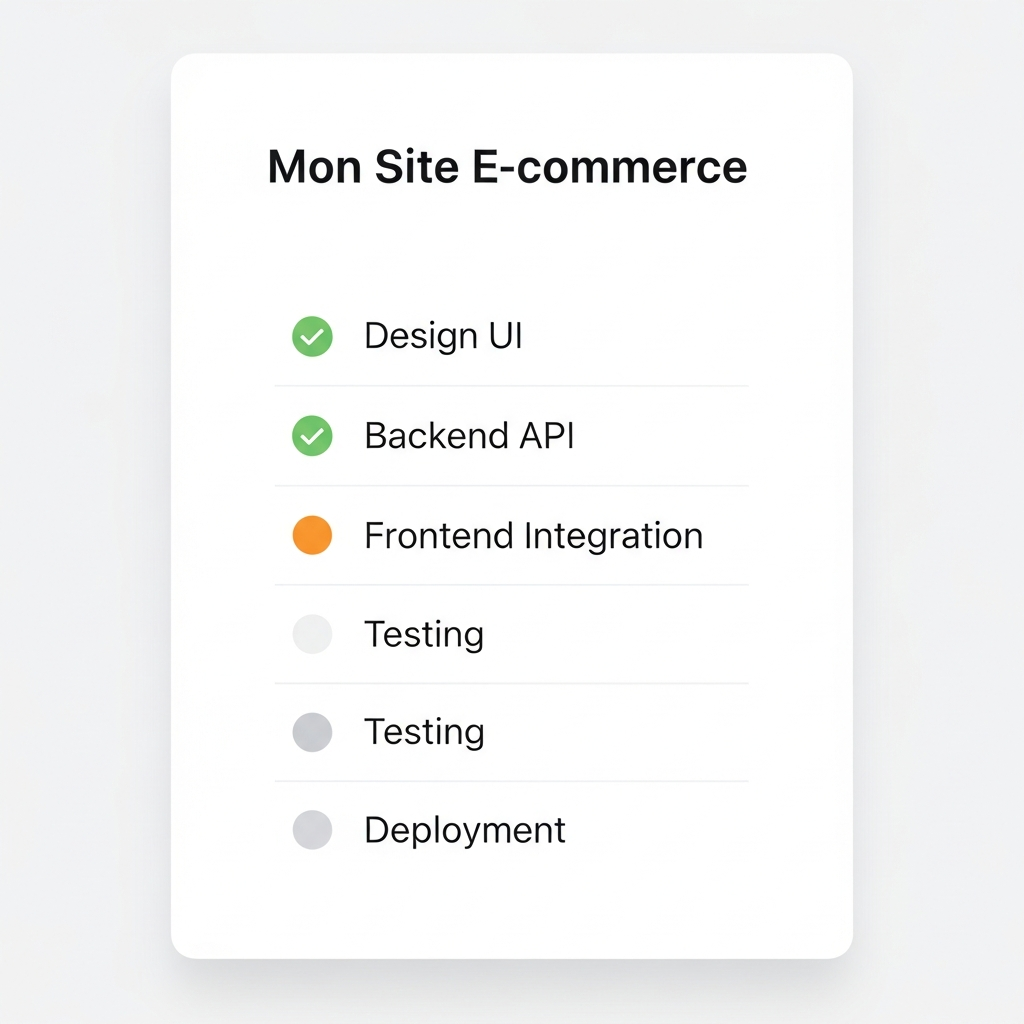
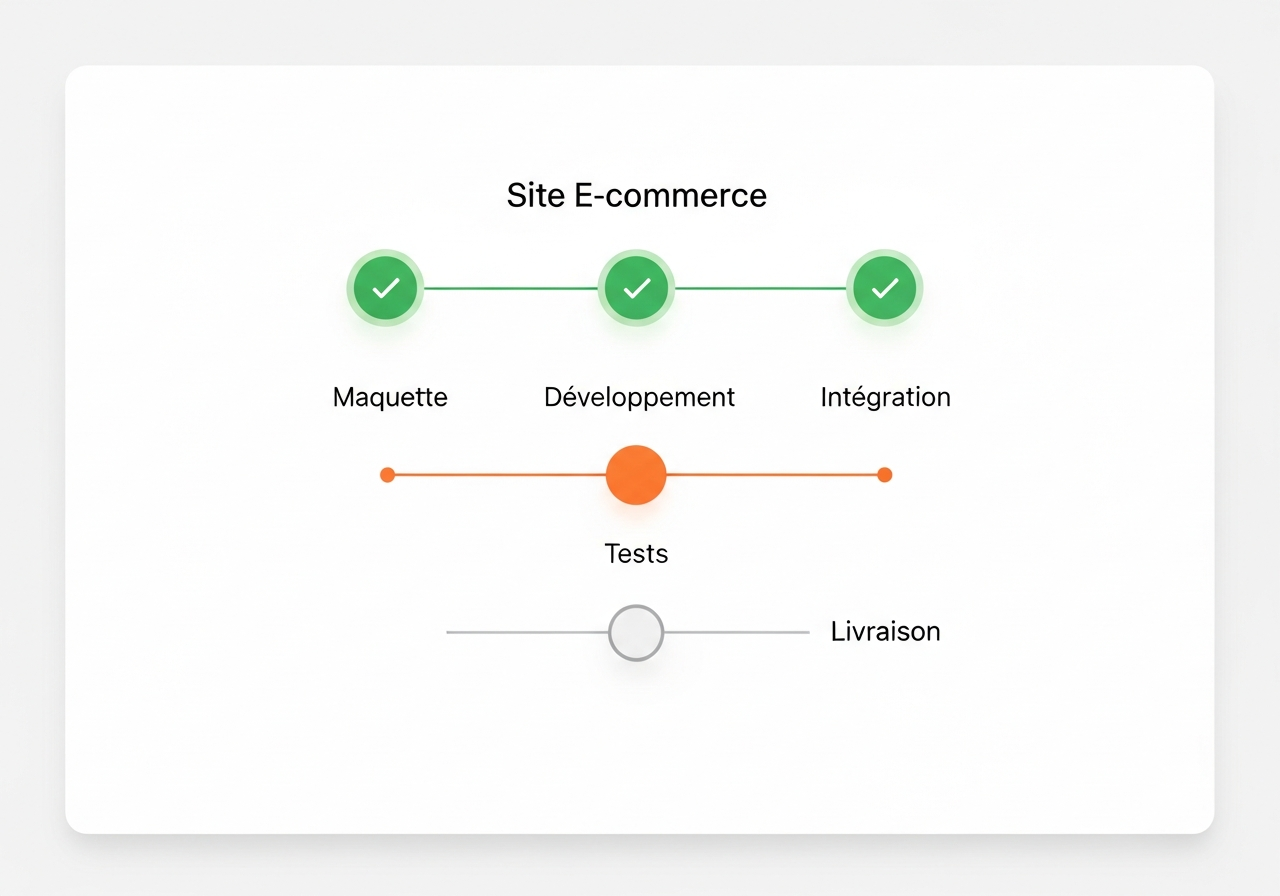
Update home page layout to display project tracking image more compactly
Re-arrange the home page component to use a square aspect ratio card that includes both the project tracking title/description and a smaller project tracking image.

Replit-Commit-Author: Agent
Replit-Commit-Session-Id: b134e2ef-497e-4a6e-8628-40abc9366b50
Replit-Commit-Checkpoint-Type: full_checkpoint
Replit-Commit-Event-Id: c830b8d4-2b19-4b24-b708-1fd43c3531b3
Replit-Commit-Screenshot-Url: https://storage.googleapis.com/screenshot-production-us-central1/38cb8800-c678-48d2-a794-cc96134e4f06/b134e2ef-497e-4a6e-8628-40abc9366b50/3Dd29en
Replit-Helium-Checkpoint-Created: true

diff --git a/client/src/pages/home.tsx b/client/src/pages/home.tsx
@@ -212,27 +212,26 @@ export default function Home() {
                 </div>
               </div>
               
-              <div className="relative space-y-6">
-                <div className="rounded-2xl bg-gradient-to-br from-primary/20 via-primary/10 to-transparent p-8">
-                  <div className="rounded-xl bg-card border p-8">
-                    <div className="text-center">
-                      <div className="mb-4 inline-flex h-16 w-16 items-center justify-center rounded-full bg-primary/10">
-                        <Rocket className="h-8 w-8 text-primary" />
+              <div className="relative">
+                <div className="aspect-square rounded-2xl bg-gradient-to-br from-primary/20 via-primary/10 to-transparent p-8">
+                  <div className="h-full w-full rounded-xl bg-card border flex flex-col items-center justify-center p-6">
+                    <div className="text-center mb-4">
+                      <div className="mb-3 inline-flex h-12 w-12 items-center justify-center rounded-full bg-primary/10">
+                        <Rocket className="h-6 w-6 text-primary" />
                       </div>
-                      <h3 className="text-xl font-semibold mb-2">Suivi de Projet en Temps Réel</h3>
-                      <p className="text-muted-foreground text-sm">
-                        Accédez à votre espace client pour suivre l'avancement de votre projet, 
-                        échanger directement avec moi et valider chaque étape de développement.
+                      <h3 className="text-lg font-semibold mb-1">Suivi de Projet en Temps Réel</h3>
+                      <p className="text-muted-foreground text-xs">
+                        Suivez l'avancement et validez chaque étape de développement.
                       </p>
                     </div>
+                    <div className="w-full rounded-lg overflow-hidden border">
+                      <img 
+                        src={projectTracking} 
+                        alt="Exemple de suivi de projet" 
+                        className="w-full h-auto object-cover"
+                      />
+                    </div>
                   </div>
-                </div>
-                <div className="rounded-xl overflow-hidden border bg-card shadow-lg">
-                  <img 
-                    src={projectTracking} 
-                    alt="Exemple de suivi de projet" 
-                    className="w-full h-auto object-cover"
-                  />
                 </div>
               </div>
             </div>
